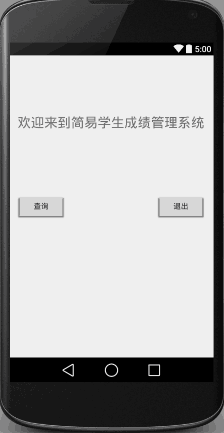
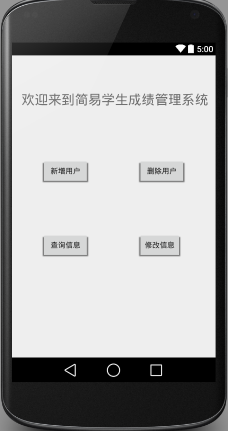
#4 第四次实验

diff --git a/soft1614080902344/shiyan4/Soft1614080902344Activity.java b/soft1614080902344/shiyan4/Soft1614080902344Activity.java
@@ -15,23 +15,38 @@ public class Soft1614080902344Activity extends ActionBarActivity {
 
         final Activity thisActivity = this;
 
-        Button login = (Button) findViewById(R.id.login);
-        Button  reset= (Button) findViewById(R.id.reset);
-        login.setOnClickListener(new View.OnClickListener() {
+        Button add = (Button) findViewById(R.id.add);
+        Button  delete= (Button) findViewById(R.id.delete);
+        Button inquire= (Button) findViewById(R.id.inquire);
+        Button change= (Button) findViewById(R.id.change);
+        add.setOnClickListener(new View.OnClickListener() {
             @Override
             public void onClick(View view) {
                 Intent intent = new Intent(Soft1614080902344Activity.this, Soft1614080902344Activity2.class);
                 thisActivity.startActivity(intent);
             }
         });
-        reset.setOnClickListener(new View.OnClickListener() {
+        delete.setOnClickListener(new View.OnClickListener() {
             @Override
             public void onClick(View view) {
                 Intent intent = new Intent(Soft1614080902344Activity.this, Soft1614080902344Activity.class);
                 thisActivity.startActivity(intent);
             }
         });
-
+        inquire.setOnClickListener(new View.OnClickListener() {
+            @Override
+            public void onClick(View view) {
+                Intent intent = new Intent(Soft1614080902344Activity.this, Soft1614080902344Activity.class);
+                thisActivity.startActivity(intent);
+            }
+        });
+        change.setOnClickListener(new View.OnClickListener() {
+            @Override
+            public void onClick(View view) {
+                Intent intent = new Intent(Soft1614080902344Activity.this, Soft1614080902344Activity.class);
+                thisActivity.startActivity(intent);
+            }
+        });
     }
 
 }

diff --git a/soft1614080902344/shiyan4/Soft1614080902344Activity2.java b/soft1614080902344/shiyan4/Soft1614080902344Activity2.java
@@ -1,11 +1,7 @@
 package edu.hzuapps.androidlabs.soft1614080902344;
 
-import android.app.Activity;
-import android.content.Intent;
 import android.os.Bundle;
 import android.support.v7.app.ActionBarActivity;
-import android.view.View;
-import android.widget.Button;
 
 public class Soft1614080902344Activity2 extends ActionBarActivity {
 
@@ -13,23 +9,6 @@ public class Soft1614080902344Activity2 extends ActionBarActivity {
     protected void onCreate(Bundle savedInstanceState) {
         super.onCreate(savedInstanceState);
         setContentView(R.layout.activity_soft16140809023442);
-        final Activity thisActivity = this;
-        Button query = (Button) findViewById(R.id.query);
-        query.setOnClickListener(new View.OnClickListener() {
-            @Override
-            public void onClick(View view) {
-                Intent intent = new Intent(Soft1614080902344Activity2.this, Soft1614080902344Activity.class);//这里应另用另一个activity，为方便先不做
-                thisActivity.startActivity(intent);
-            }
-        });
-        Button quit = (Button) findViewById(R.id.quit);
-        quit.setOnClickListener(new View.OnClickListener() {
-            @Override
-            public void onClick(View view) {
-                Intent intent = new Intent(Soft1614080902344Activity2.this, Soft1614080902344Activity.class);
-                thisActivity.startActivity(intent);
-            }
-        });
     }
 
 }
